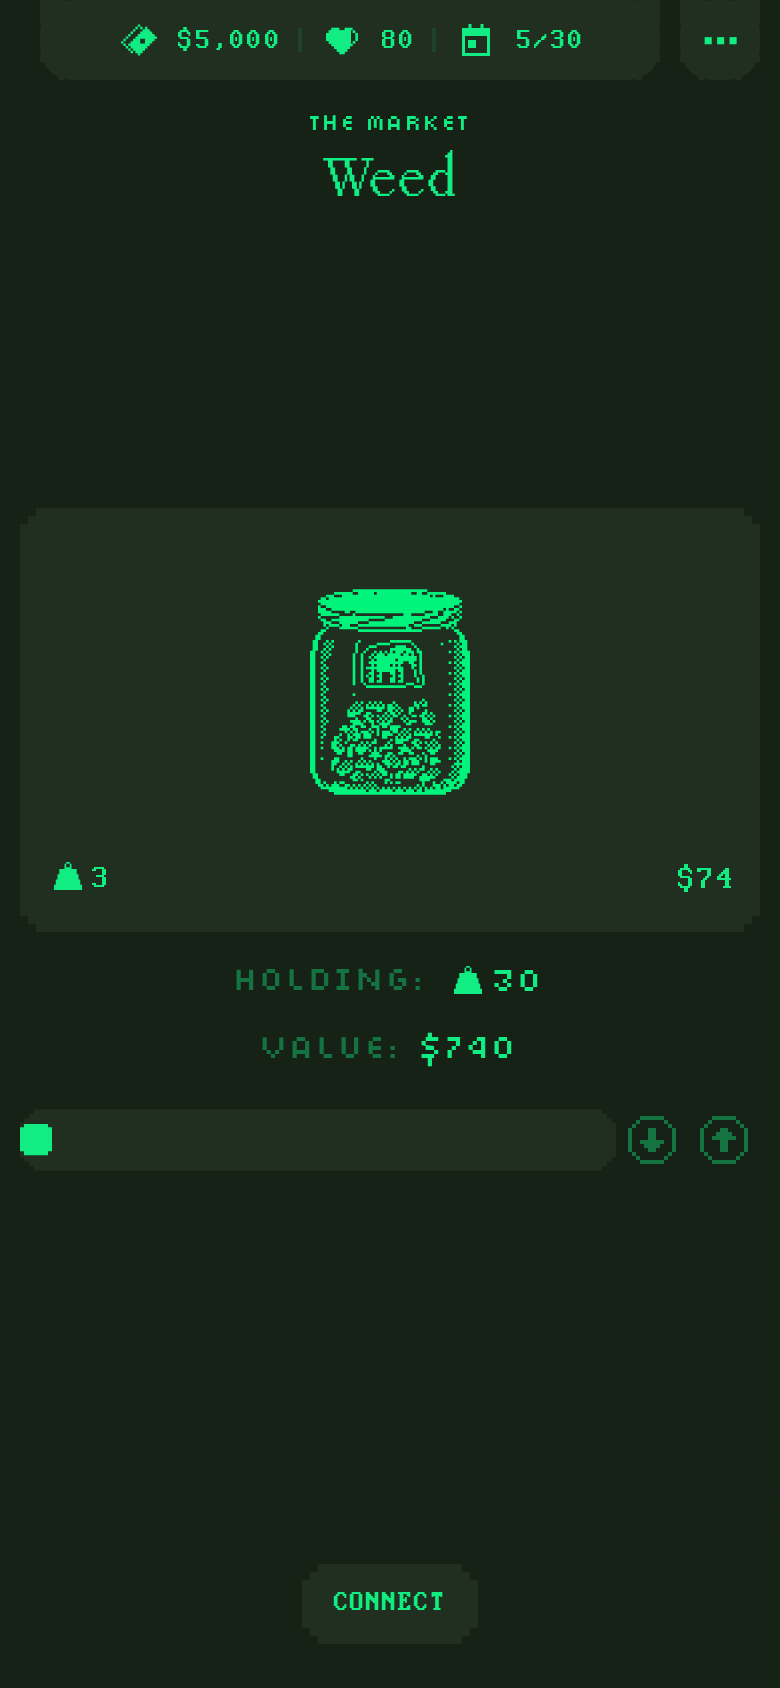
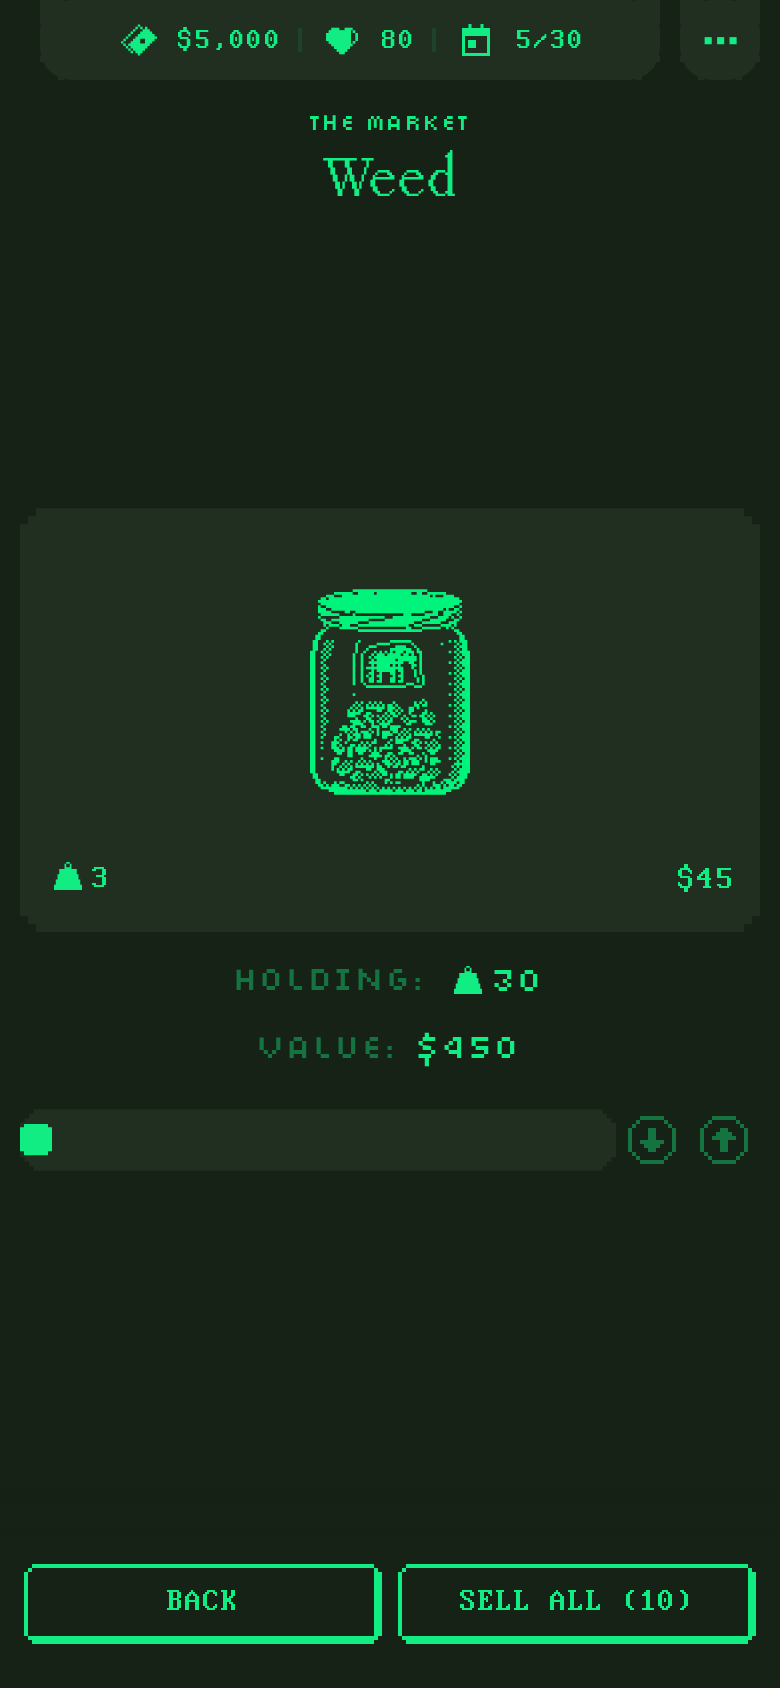
Fix mock providers: connected wallet, leaderboard data, season entries
- Mock @starknet-react/core so useAccount returns connected state (shows
  game buttons instead of "Connect")
- Mock useSeasonByVersion, useRegisteredGamesBySeason, useSeasons with
  rich data (8 leaderboard entries, 2 seasons)
- Mock useSystems, useSql, and other data-fetching hooks
- Make starknet mock fully self-contained to avoid circular imports
- Recapture all 28 screenshots with improved rendering

diff --git a/web/.storybook/main.ts b/web/.storybook/main.ts
@@ -7,6 +7,7 @@ const __dirname = path.dirname(__filename);
 
 const srcDir = path.resolve(__dirname, "../src");
 const mocksDir = path.resolve(srcDir, "__mocks__");
+const hookMocksDir = path.resolve(mocksDir, "hooks");
 
 const config: StorybookConfig = {
   stories: ["../src/**/*.stories.@(js|jsx|ts|tsx)"],
@@ -21,10 +22,24 @@ const config: StorybookConfig = {
 
     config.resolve.alias = {
       ...config.resolve.alias,
-      // Mock modules that require unavailable providers
+      // Mock provider-dependent modules
       [path.resolve(srcDir, "hooks/PaperPriceContext")]: path.resolve(mocksDir, "hookMocks.ts"),
       [path.resolve(srcDir, "dope/store/DopeProvider")]: path.resolve(mocksDir, "dopeStoreMock.ts"),
       [path.resolve(srcDir, "dope/components")]: path.resolve(mocksDir, "dopeComponentsMock.tsx"),
+      // Mock starknet hooks for connected wallet state
+      "@starknet-react/core": path.resolve(mocksDir, "starknetCoreMock.ts"),
+      // Mock data-fetching hooks
+      [path.resolve(srcDir, "dojo/hooks/useSeasonByVersion")]: path.resolve(hookMocksDir, "useSeasonByVersion.tsx"),
+      [path.resolve(srcDir, "dojo/hooks/useRegisteredGamesBySeason")]: path.resolve(hookMocksDir, "useRegisteredGamesBySeason.tsx"),
+      [path.resolve(srcDir, "dojo/hooks/useSeasons")]: path.resolve(hookMocksDir, "useSeasons.tsx"),
+      [path.resolve(srcDir, "dojo/hooks/useSystems")]: path.resolve(hookMocksDir, "useSystems.ts"),
+      [path.resolve(srcDir, "dojo/hooks/useSql")]: path.resolve(hookMocksDir, "useSql.ts"),
+      [path.resolve(srcDir, "dojo/hooks/useActiveGamesBySeason")]: path.resolve(hookMocksDir, "useOtherHooks.ts"),
+      [path.resolve(srcDir, "dojo/hooks/useHallOfFame")]: path.resolve(hookMocksDir, "useOtherHooks.ts"),
+      [path.resolve(srcDir, "dojo/hooks/useTokenBalance")]: path.resolve(hookMocksDir, "useOtherHooks.ts"),
+      [path.resolve(srcDir, "dojo/hooks/useClaimable")]: path.resolve(hookMocksDir, "useOtherHooks.ts"),
+      [path.resolve(srcDir, "dojo/hooks/useControllerUsername")]: path.resolve(hookMocksDir, "useOtherHooks.ts"),
+      [path.resolve(srcDir, "dojo/hooks/useGameById")]: path.resolve(hookMocksDir, "useOtherHooks.ts"),
       // General path alias
       "@": srcDir,
     };

diff --git a/web/src/__mocks__/hooks/useRegisteredGamesBySeason.tsx b/web/src/__mocks__/hooks/useRegisteredGamesBySeason.tsx
@@ -1,0 +1,21 @@
+import { shortString } from "starknet";
+
[1 lines of base64/hex data omitted]
+
+const mockLeaderboardGames = [
+  { game_id: 101, player_id: "0xaaa1", player_name: "Heisenberg", final_score: 125000, registered: true, position: 1, multiplier: 1, token_id_type: "lootid", token_id: 1, season_version: "1", game_mode: "Ranked" },
+  { game_id: 102, player_id: "0xaaa2", player_name: "Scarface", final_score: 98000, registered: true, position: 2, multiplier: 1, token_id_type: "lootid", token_id: 2, season_version: "1", game_mode: "Ranked" },
+  { game_id: 103, player_id: "0xaaa3", player_name: "Walter", final_score: 75000, registered: true, position: 3, multiplier: 1, token_id_type: "lootid", token_id: 3, season_version: "1", game_mode: "Ranked" },
+  { game_id: 104, player_id: "0xaaa4", player_name: "Jesse", final_score: 52000, registered: true, position: 4, multiplier: 1, token_id_type: "lootid", token_id: 4, season_version: "1", game_mode: "Ranked" },
+  { game_id: 105, player_id: "0xaaa5", player_name: "Gus", final_score: 43000, registered: true, position: 5, multiplier: 1, token_id_type: "lootid", token_id: 5, season_version: "1", game_mode: "Ranked" },
+  { game_id: 106, player_id: MOCK_ADDRESS, player_name: "Player", final_score: 38000, registered: true, position: 6, multiplier: 1, token_id_type: "lootid", token_id: 6, season_version: "1", game_mode: "Ranked" },
+  { game_id: 107, player_id: "0xaaa7", player_name: "Tuco", final_score: 28000, registered: true, position: 7, multiplier: 1, token_id_type: "lootid", token_id: 7, season_version: "1", game_mode: "Ranked" },
+  { game_id: 108, player_id: "0xaaa8", player_name: "Mike", final_score: 21000, registered: true, position: 8, multiplier: 1, token_id_type: "lootid", token_id: 8, season_version: "1", game_mode: "Ranked" },
+];
+
+export const useRegisteredGamesBySeason = (_version: number) => ({
+  registeredGames: mockLeaderboardGames,
+  isFetched: true,
+  isFetching: false,
+  refetch: () => {},
+});

diff --git a/web/src/__mocks__/starknetCoreMock.ts b/web/src/__mocks__/starknetCoreMock.ts
@@ -1,0 +1,78 @@
+// Fully self-contained mock for @starknet-react/core
+// No imports from the real module to avoid circular alias resolution
+import React from "react";
+
[1 lines of base64/hex data omitted]
+
+// Provider components - just render children
+export const StarknetConfig = ({ children }: any) => children;
+
+// Hook mocks
+export const useAccount = () => ({
+  account: {
+    address: MOCK_ADDRESS,
+    provider: {},
+    waitForTransaction: async () => ({}),
+    chainId: "0x534e5f4d41494e",
+  },
+  address: MOCK_ADDRESS,
+  isConnected: true,
+  isConnecting: false,
+  isReconnecting: false,
+  isDisconnected: false,
+  status: "connected" as const,
+  connector: { id: "mock", name: "Mock Wallet" },
+  chainId: "0x534e5f4d41494e",
+});
+
+export const useConnect = () => ({
+  connect: () => {},
+  connectors: [
+    { id: "mock", name: "Controller", available: () => true },
+  ],
+  isLoading: false,
+  isSuccess: true,
+  isError: false,
+  error: null,
+  pendingConnector: null,
+});
+
+export const useDisconnect = () => ({
+  disconnect: () => {},
+});
+
+export const useNetwork = () => ({
+  chain: { id: BigInt(0x534e5f4d41494e), name: "Mainnet" },
+  chains: [],
+});
+
+export const useStarkName = () => ({
+  data: undefined,
+});
+
+export const useBalance = () => ({
+  data: { value: BigInt("1000000000000000000"), decimals: 18, symbol: "ETH" },
+  isLoading: false,
+});
+
+export const useProvider = () => ({
+  provider: {},
+});
+
+export const useExplorer = () => ({
+  url: "https://starkscan.co",
+});
+
+// Connector utilities - no-ops
+export const jsonRpcProvider = (_opts?: any) => () => ({});
+export const starkscan = () => ({});
+export const argent = () => ({});
+export const injected = (_opts?: any) => ({});
+export class InjectedConnector {
+  constructor(_opts?: any) {}
+}
+
+// Type re-exports as empty types
+export type Connector = any;
+export type ChainProviderFactory<T = any> = any;
+export type ExplorerFactory = any;

diff --git a/web/src/__mocks__/MockDojoProvider.tsx b/web/src/__mocks__/MockDojoProvider.tsx
@@ -1,7 +1,6 @@
 import React, { ReactNode } from "react";
 import { DojoContext, DojoContextType } from "@/dojo/context/DojoContext";
 import { UiStore } from "@/dojo/stores/ui";
-import { StarknetConfig, jsonRpcProvider, starkscan } from "@starknet-react/core";
 import { QueryClient, QueryClientProvider } from "react-query";
 import { shortString } from "starknet";
 import {
@@ -214,19 +213,11 @@ export const MockDojoProvider = ({
   const contextValue = createMockDojoContext(overrides);
 
   return (
-    <StarknetConfig
-      chains={[mockChain] as any}
-      provider={jsonRpcProvider({ rpc: () => ({ nodeUrl: "http://localhost:5050" }) })}
-      connectors={[]}
-      explorer={starkscan}
-      autoConnect={false}
-    >
-      <QueryClientProvider client={mockQueryClient}>
-        <DojoContext.Provider value={contextValue}>
-          {children}
-        </DojoContext.Provider>
-      </QueryClientProvider>
-    </StarknetConfig>
+    <QueryClientProvider client={mockQueryClient}>
+      <DojoContext.Provider value={contextValue}>
+        {children}
+      </DojoContext.Provider>
+    </QueryClientProvider>
   );
 };
 

diff --git a/web/src/__mocks__/hooks/useSystems.ts b/web/src/__mocks__/hooks/useSystems.ts
@@ -1,0 +1,24 @@
+export const useSystems = () => ({
+  createGame: async () => ({ hash: "0x0" }),
+  endGame: async () => ({ hash: "0x0" }),
+  travel: async () => ({ hash: "0x0" }),
+  decide: async () => ({ hash: "0x0" }),
+  registerScore: async () => ({ hash: "0x0" }),
+  claim: async () => ({ hash: "0x0" }),
+  claimTreasury: async () => ({ hash: "0x0" }),
+  superchargeJackpot: async () => ({ hash: "0x0" }),
+  launder: async () => ({ hash: "0x0" }),
+  setPaused: async () => ({ hash: "0x0" }),
+  updateRyoConfig: async () => ({ hash: "0x0" }),
+  updateDrugConfig: async () => ({ hash: "0x0" }),
+  failingTx: async () => ({ hash: "0x0" }),
+  createFakeGame: async () => ({ hash: "0x0" }),
+  createNewSeason: async () => ({ hash: "0x0" }),
+  executeAndReceipt: async () => ({ hash: "0x0" }),
+  isPending: false,
+  error: undefined,
+});
+
+export const ETHER = 10n ** 18n;
+export const tryBetterErrorMsg = (msg: string) => msg;
+export const waitForTransaction = async () => undefined;

diff --git a/web/src/__mocks__/hooks/useOtherHooks.ts b/web/src/__mocks__/hooks/useOtherHooks.ts
@@ -1,0 +1,41 @@
+// Stubs for remaining hooks that make network calls
+
+export const useActiveGamesBySeason = (_version: number) => ({
+  activeGames: [],
+  isFetched: true,
+  isFetching: false,
+  refetch: () => {},
+});
+
+export const useGameById = () => ({
+  game: null,
+  isFetched: true,
+});
+
+export const useHallOfFame = () => ({
+  hallOfFame: [],
+  isFetched: true,
+  refetch: () => {},
+});
+
+export const useTokenBalance = () => ({
+  balance: BigInt("10000000000000000000000"),
+  isPending: false,
+  refetch: () => {},
+});
+
+export const useClaimable = () => ({
+  claimable: [],
+  isFetched: true,
+  refetch: () => {},
+});
+
+export const useControllerUsername = () => ({
+  username: "Player",
+});
+
+export const useGamesByPlayer = () => ({
+  games: [],
+  isFetched: true,
+  refetch: () => {},
+});

diff --git a/web/src/__mocks__/hooks/useSeasons.tsx b/web/src/__mocks__/hooks/useSeasons.tsx
@@ -1,0 +1,28 @@
+export const useSeasons = () => ({
+  seasons: [
+    {
+      season: {
+        version: 1,
+        next_version_timestamp: Math.floor(Date.now() / 1000) + 86400 * 3,
+        season_time_limit: 86400,
+        paper_balance: 50000,
+        paper_fee: 100,
+      },
+      sortedList: { list_id: 1, size: 8, process_size: 8, process_max_size: 8, processed: false },
+    },
+    {
+      season: {
+        version: 2,
+        next_version_timestamp: Math.floor(Date.now() / 1000) - 86400,
+        season_time_limit: 86400,
+        paper_balance: 120000,
+        paper_fee: 100,
+      },
+      sortedList: { list_id: 2, size: 42, process_size: 42, process_max_size: 42, processed: true },
+    },
+  ],
+  isFetched: true,
+  refetch: () => {},
+});
+
+export type SeasonInfos = any;

diff --git a/web/src/__mocks__/hooks/useSeasonByVersion.tsx b/web/src/__mocks__/hooks/useSeasonByVersion.tsx
@@ -1,0 +1,31 @@
+export const useSeasonByVersion = (_seasonId: number) => ({
+  season: {
+    version: 1,
+    next_version_timestamp: Math.floor(Date.now() / 1000) + 86400 * 3,
+    season_time_limit: 86400,
+    paper_balance: 50000,
+    paper_fee: 100,
+  },
+  seasonSettings: {
+    season_version: "1",
+    cash_mode: "Average",
+    health_mode: "Hustler",
+    turns_mode: "OnWeed",
+    encounters_mode: "NoJokes",
+    encounters_odds_mode: "Normal",
+    drugs_mode: "Normal",
+    wanted_mode: "ThugLife",
+  },
+  sortedList: {
+    list_id: 1,
+    size: 8,
+    process_size: 8,
+    process_max_size: 8,
+    processed: false,
+  },
+  isSeasonOpen: true,
+  isSeasonWashed: false,
+  canCreateGame: true,
+  isFetched: true,
+  refetch: () => {},
+});

diff --git a/web/src/__mocks__/hooks/useSql.ts b/web/src/__mocks__/hooks/useSql.ts
@@ -1,0 +1,6 @@
+export const useSql = (_query: string) => ({
+  data: [],
+  isFetched: true,
+  isFetching: false,
+  refetch: () => {},
+});
